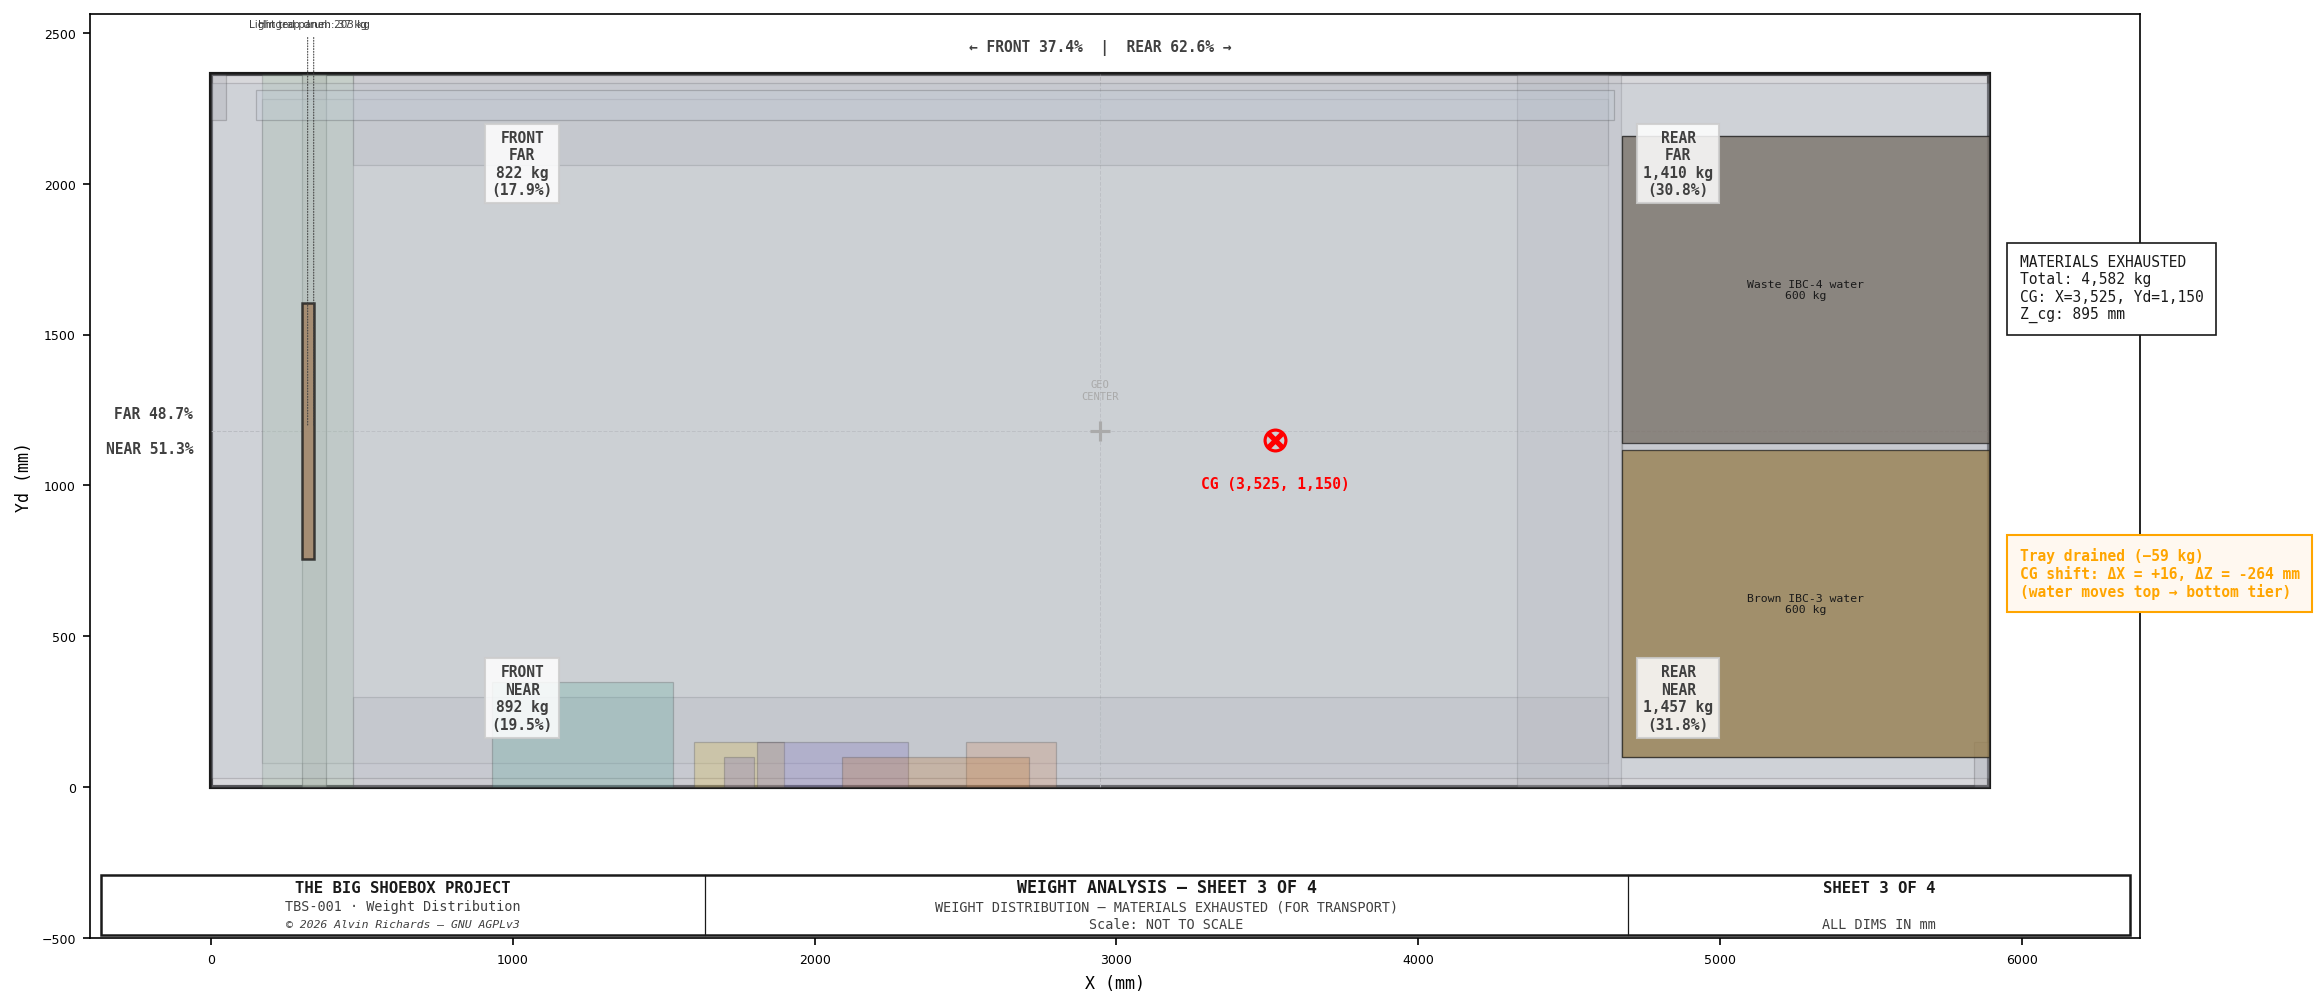
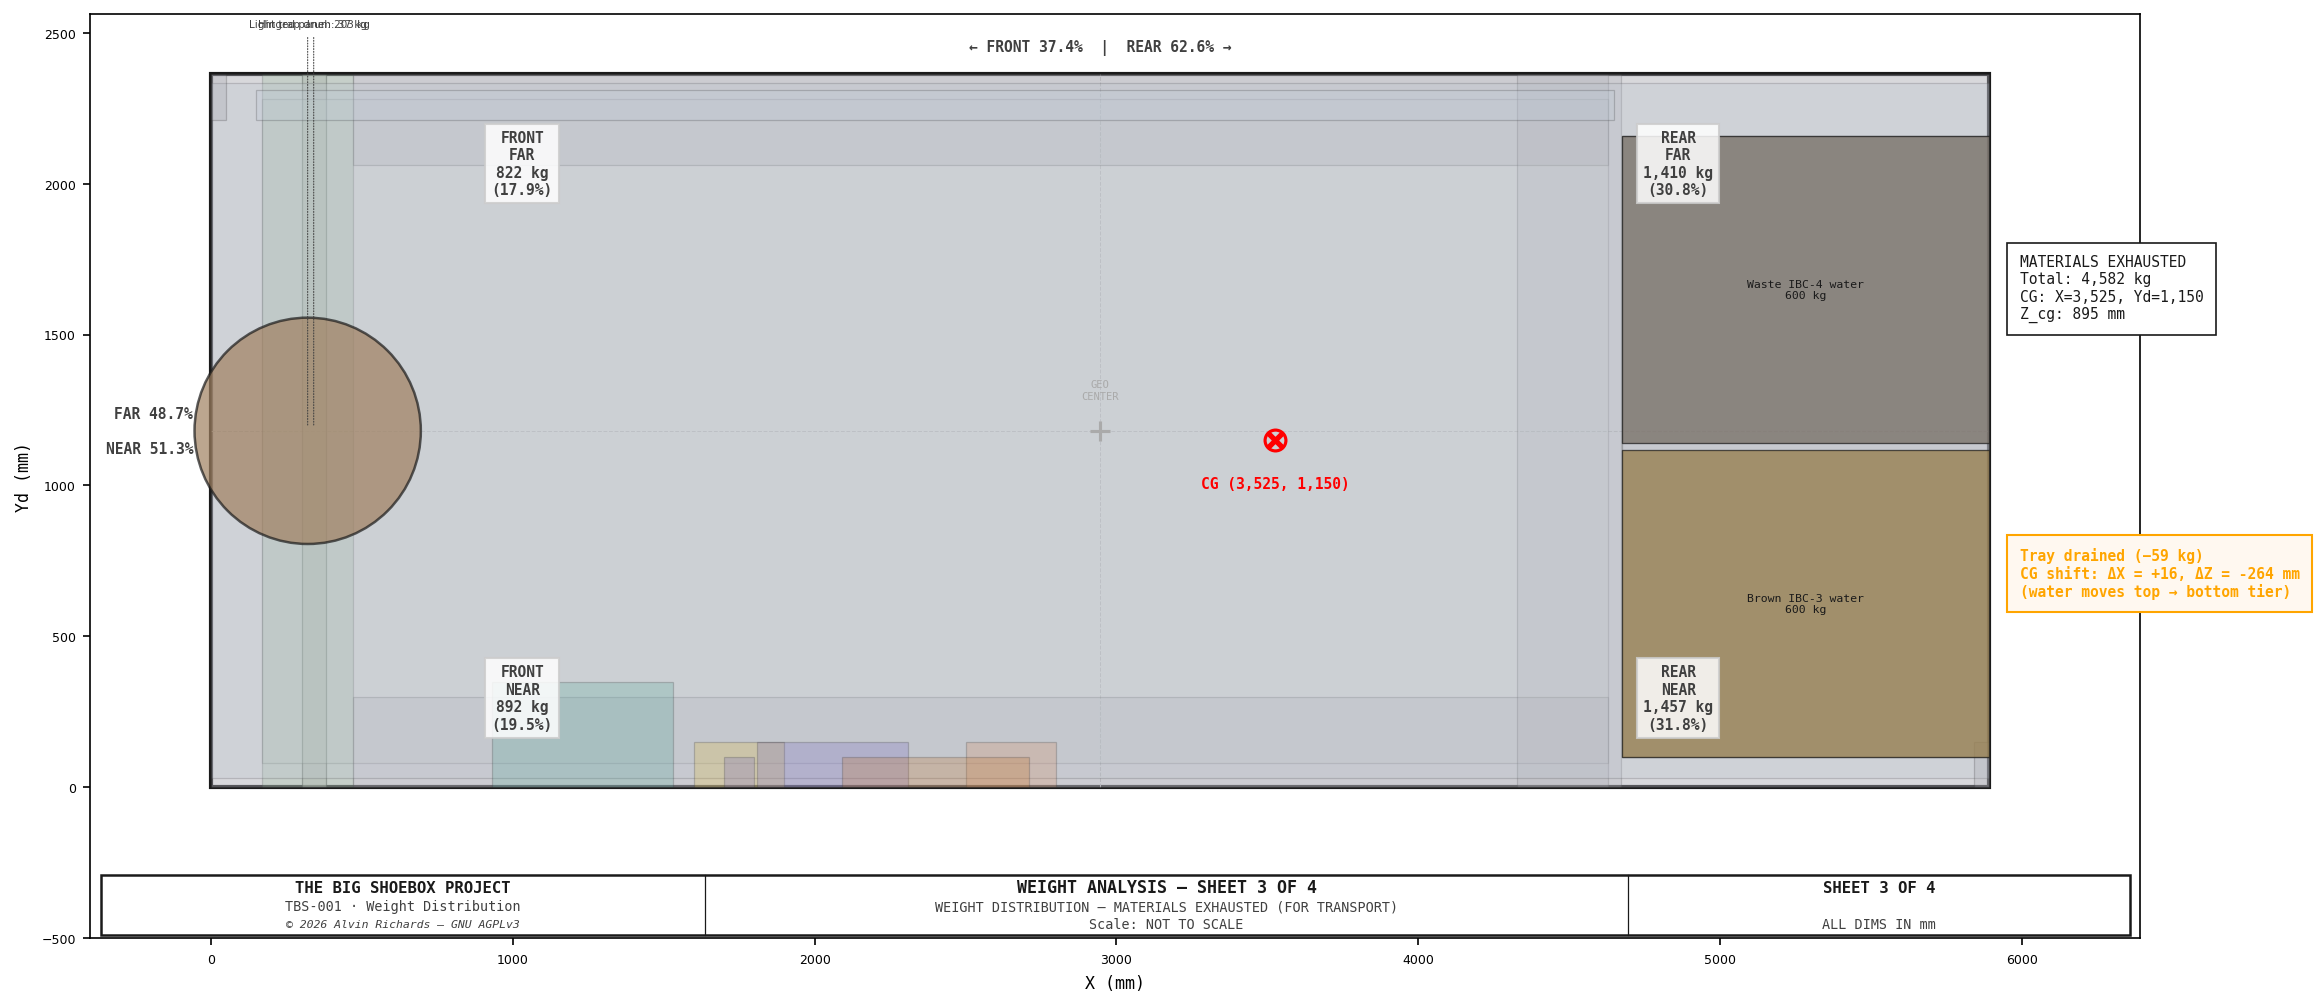
Sheets 2-3: draw light trap drum as circle in plan view
The drum is a cylinder (Ø750mm) — render as a circle instead of a
bounding-box rectangle, consistent with other plan-view diagrams.

Changed region(s): [[0.0622, 0.3078, 0.1867, 0.5541]]

diff --git a/generate_weight_analysis.py b/generate_weight_analysis.py
@@ -23,7 +23,7 @@ import matplotlib
 matplotlib.use("Agg")
 import matplotlib.pyplot as plt
 import matplotlib.patches as mpatches
-from matplotlib.patches import FancyBboxPatch, Rectangle
+from matplotlib.patches import Circle, FancyBboxPatch, Rectangle
 import numpy as np
 
 from tbs_drawing import leader
@@ -46,7 +46,7 @@ from tbs_constants import (
     EP_X, EP_W, BA_X, BA_W, PUMP_X, PUMP_W,
     PANEL_CORNER_T, PANEL_CENTER_T,
     PANEL_CORNER_YD_L, PANEL_CORNER_YD_R, PANEL_SLIDE,
-    DRUM_D, DRUM_H_LT,
+    DRUM_D, DRUM_R, DRUM_H_LT,
     FAN_DIAM, FAN_A_YD, FAN_B_YD,
     C_OUT, C_DIM, C_STEEL, C_ALUM,
     C_BLUE_IBC, C_BROWN_IBC, C_WASTE_IBC,
@@ -709,11 +709,11 @@ def _draw_state_diagram(ax, components, state, state_label):
     for c in panel:
         _draw_component(ax, c, alpha=0.5, show_label=False)
     for c in drum:
-        # Draw drum with distinct color and higher zorder above the panel
-        w = c.x_max - c.x_min
-        h = c.yd_max - c.yd_min
-        ax.add_patch(Rectangle((c.x_min, c.yd_min), w, h,
-                     fc="#A08060", ec=C_OUT, lw=1.2, alpha=0.8, zorder=7))
+        # Draw drum as circle (plan view of cylinder Ø750mm)
+        cx = c.x_cg
+        cy = c.yd_cg
+        ax.add_patch(Circle((cx, cy), DRUM_R,
+                     fc="#A08060", ec=C_OUT, lw=1.2, alpha=0.7, zorder=7))
     for c in others:
         _draw_component(ax, c, alpha=0.25, show_label=False)
 
